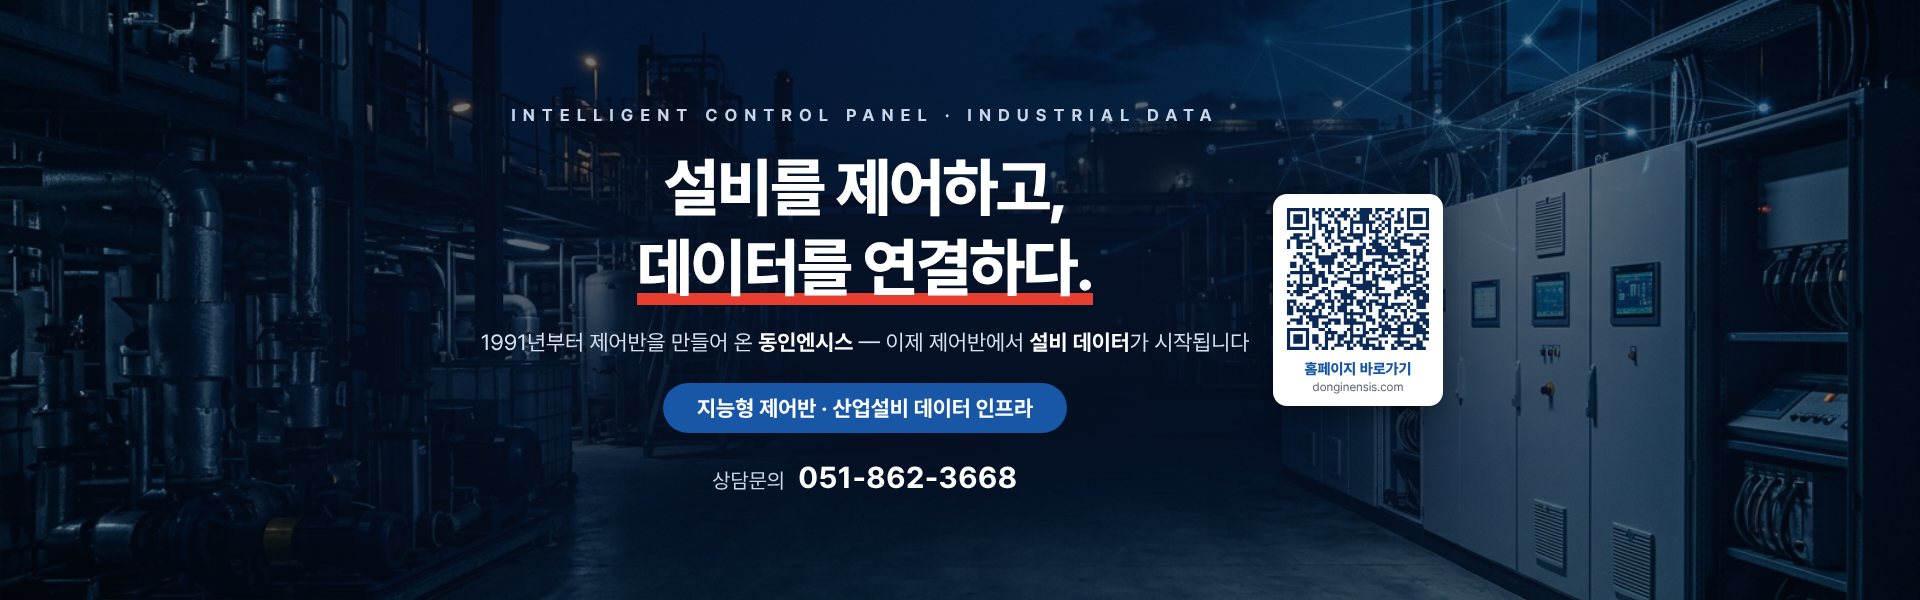
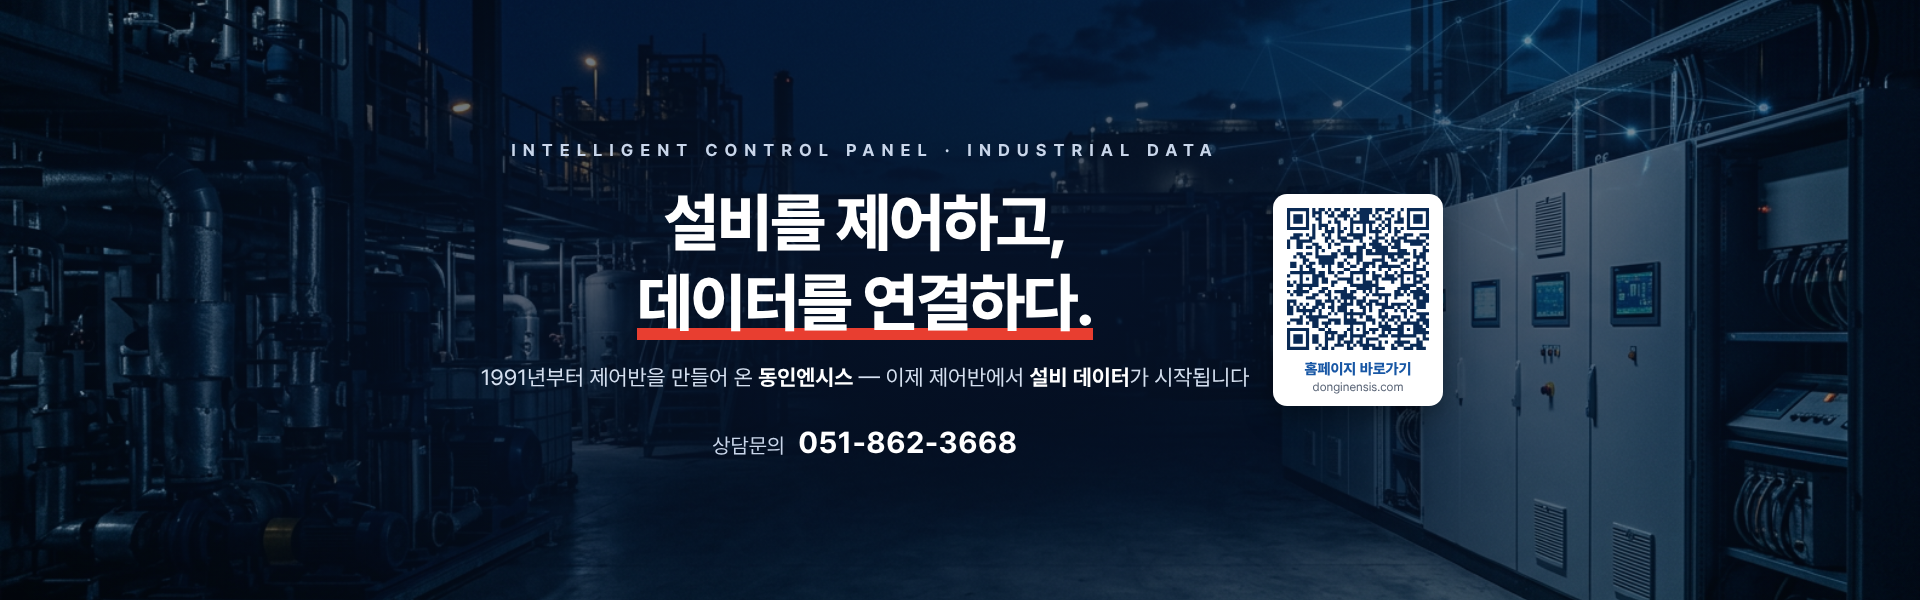
블로그 배너: 파란 띠 문구 제거
Claude-Session: https://claude.ai/code/session_01NXsXRUGdEyZ6oniYW4daEY

Changed region(s): [[0.25, 0.24, 0.6562, 0.81], [0.25, 0.18, 0.625, 0.21]]

diff --git a/blog-design/images/hero.html b/blog-design/images/hero.html
@@ -5,8 +5,7 @@
 <div style="position:relative;width:966px;height:100%;margin:0 auto;padding-right:190px;display:flex;flex-direction:column;align-items:center;justify-content:center;text-align:center;color:#fff">
   <div style="font-size:17px;font-weight:600;letter-spacing:7px;color:#C9D6EA;margin-bottom:22px">INTELLIGENT CONTROL PANEL · INDUSTRIAL DATA</div>
   <div style="font-size:64px;font-weight:800;line-height:1.25;letter-spacing:-2px;margin-bottom:22px">설비를 제어하고,<br><span style="background:linear-gradient(transparent 84%, #E83E30 84%)">데이터를 연결하다.</span></div>
-  <div style="font-size:22px;color:#D5E0F0;margin-bottom:28px">1991년부터 제어반을 만들어 온 <b style="color:#fff">동인엔시스</b> — 이제 제어반에서 <b style="color:#fff">설비 데이터</b>가 시작됩니다</div>
-  <div style="display:inline-block;background:#1857A5;color:#fff;font-size:22px;font-weight:700;padding:12px 34px;border-radius:40px;margin-bottom:26px">지능형 제어반 · 산업설비 데이터 인프라</div>
+  <div style="font-size:22px;color:#D5E0F0;margin-bottom:34px">1991년부터 제어반을 만들어 온 <b style="color:#fff">동인엔시스</b> — 이제 제어반에서 <b style="color:#fff">설비 데이터</b>가 시작됩니다</div>
   <div style="font-size:21px;color:#C9D6EA">상담문의 <b style="font-size:30px;color:#fff;letter-spacing:.5px;margin-left:8px">051-862-3668</b></div>
 </div>
 <div style="position:absolute;right:calc(50% - 483px);top:50%;transform:translateY(-50%);width:170px;background:#fff;border-radius:14px;padding:14px 14px 12px;text-align:center;box-shadow:0 10px 30px rgba(0,0,0,.35)">
